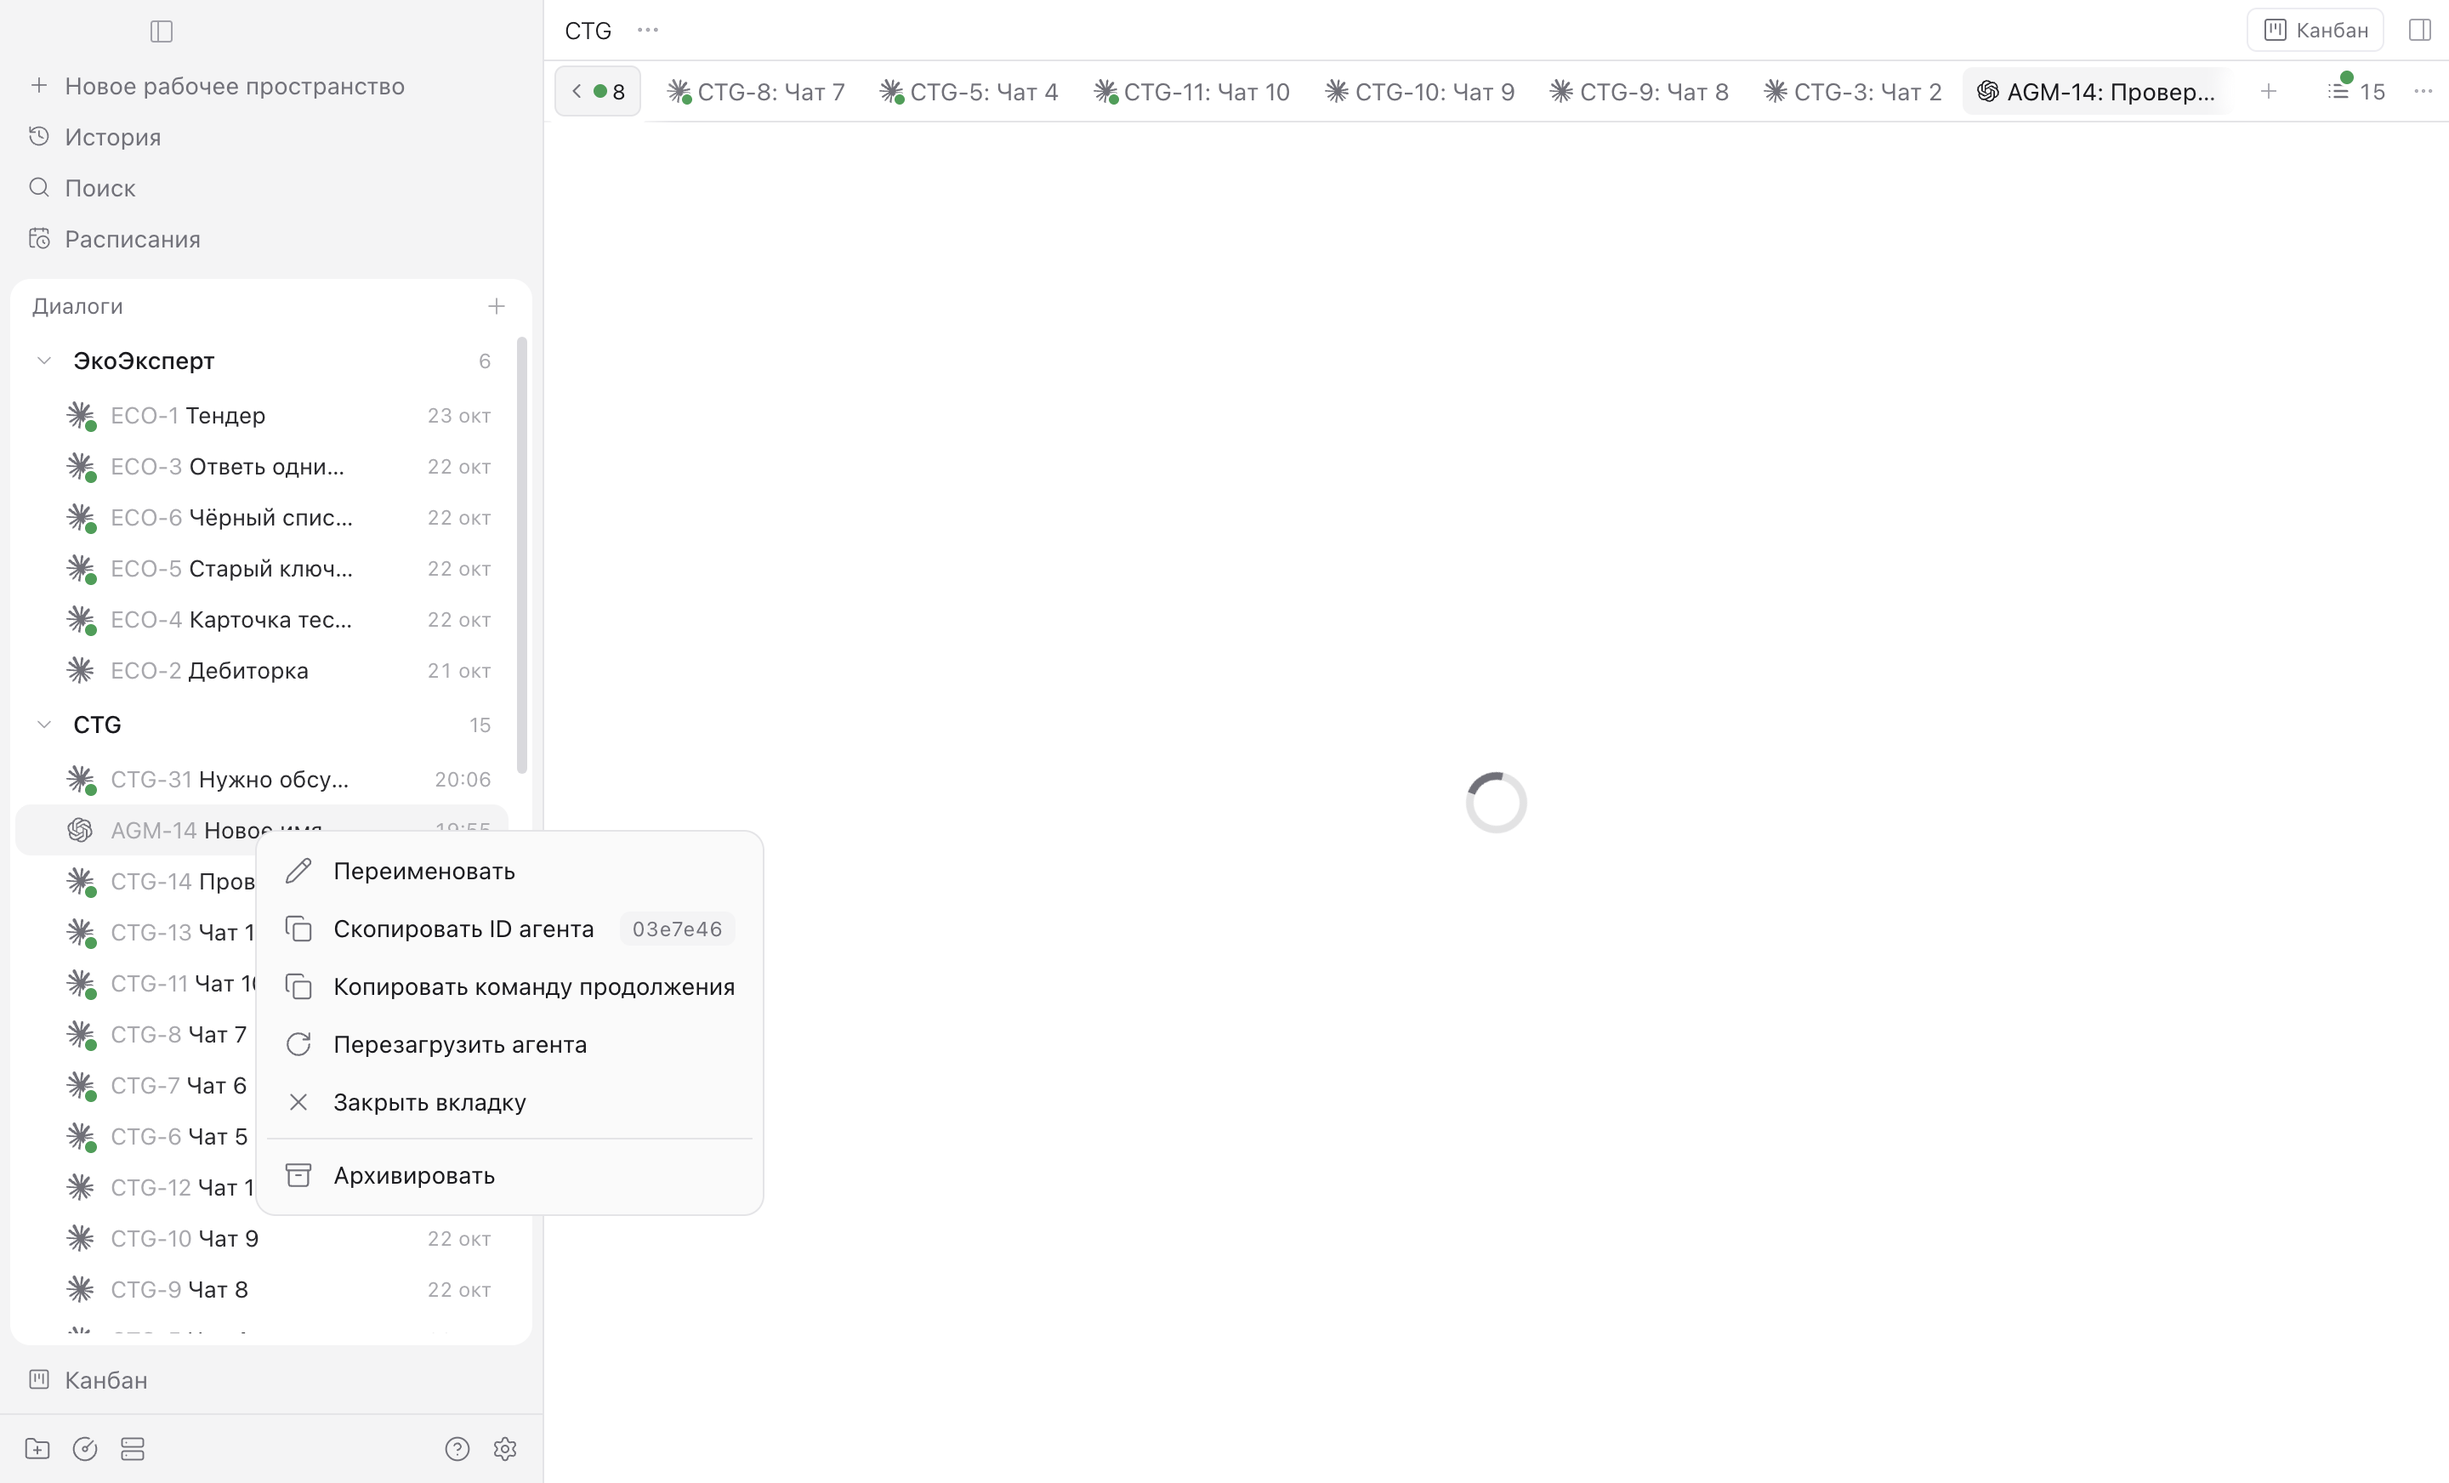
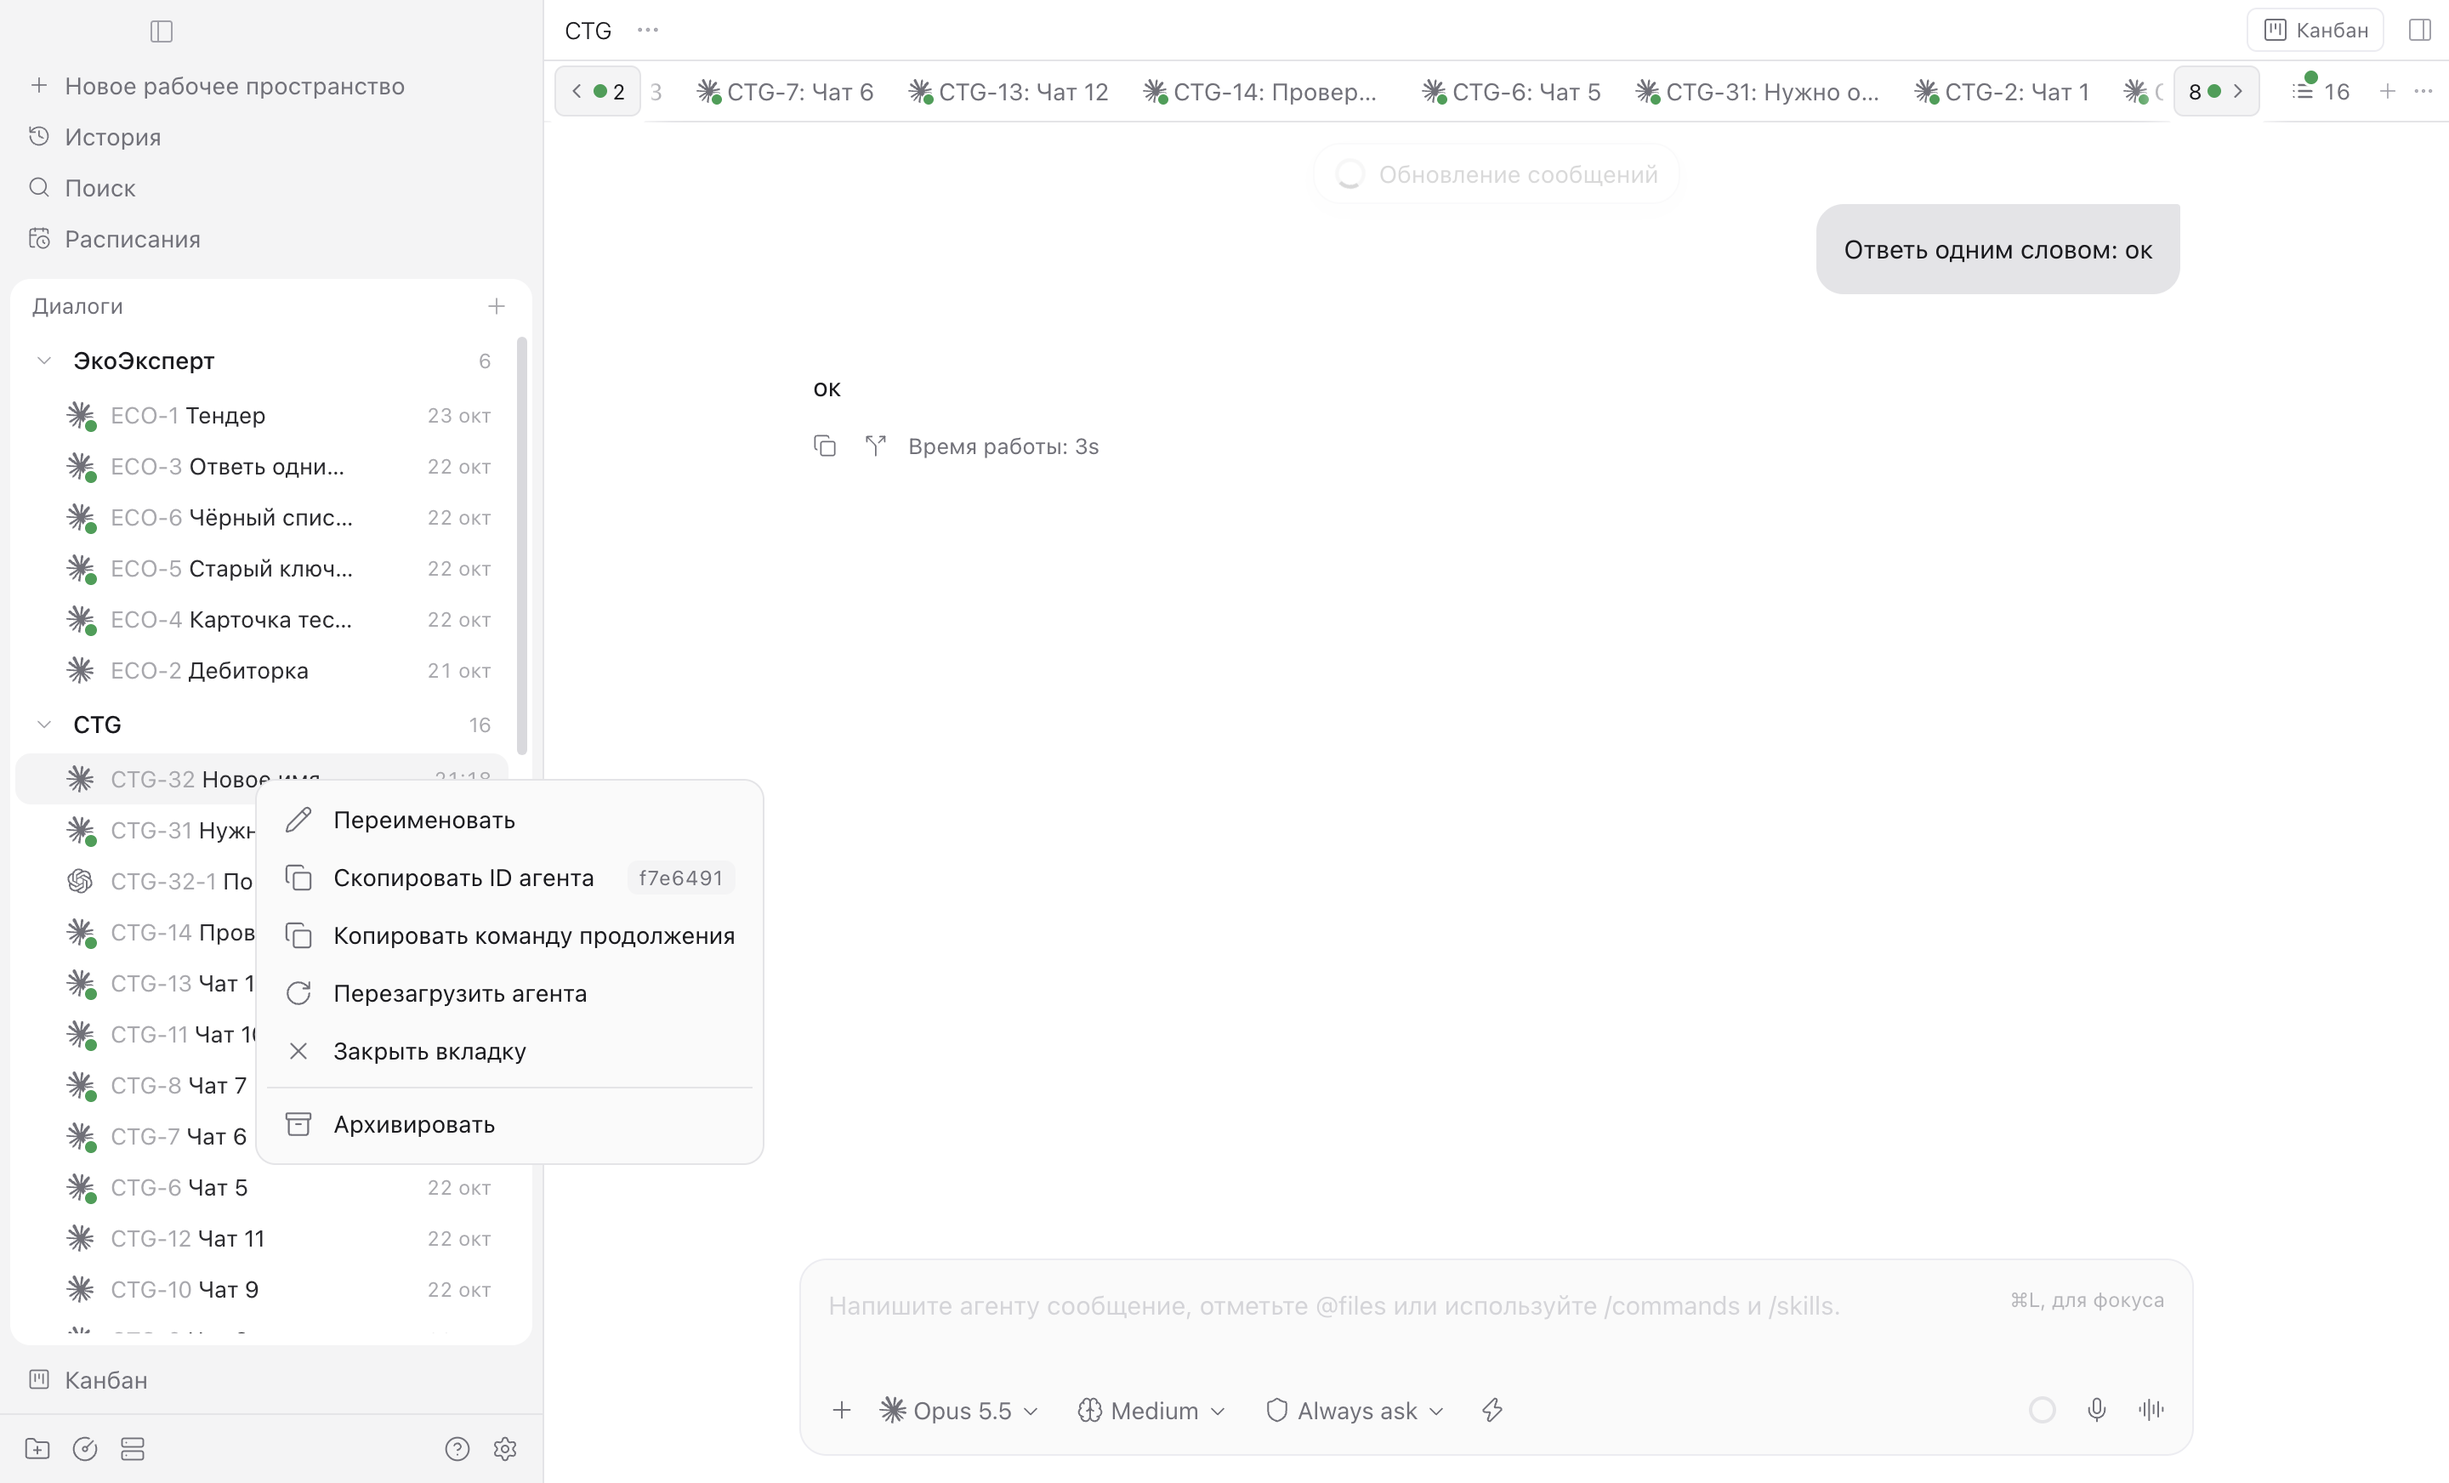
test: verify native row menu on isolated desktop fixture

diff --git a/client/dialogs.tsx b/client/dialogs.tsx
@@ -358,7 +358,10 @@ export function Dialogs(p: PluginSidebarItemProps) {
       else {
         const result = await action({ agentId: agent.id, action: kind });
         if (result.text) await copyRowText(result.text);
-        if (kind === "reload") await d.paseo.agents.ref(agent.id).timeline.refetch();
+        if (kind === "reload") {
+          await d.paseo.agents.ref(agent.id).timeline.refetch();
+          toast.show("Агент перезагружен", { variant: "success" });
+        }
         await qc.invalidateQueries({ queryKey: ["dialogs", p.host.id] });
       }
     } catch (error) { toast.error(error instanceof Error ? error.message : "Не удалось выполнить действие"); }
@@ -749,6 +752,7 @@ export function Archive({
     );
   return (
     <View
+      testID="dialogs-archive-screen"
       style={{
         flex: 1,
         padding: 16,

diff --git a/docs/row-menu-0.10.0.md b/docs/row-menu-0.10.0.md
@@ -24,3 +24,11 @@ claude --resume, hermes --resume, pi --session, omp --session, opencode --sessio
 Настольный сценарий запускает скрытое окно Electron 44.2 с оригинальным app-dist 0.13
 и отдельным демоном 0.12 на 6796. Основные вкладки Александра не использует.
 Результат - row-menu-verification.json, снимки - shots/0.10.0.
+
+Результат проверки: все пункты основного и полного архива работают; успешная перезагрузка
+подтверждена родным success toast, Escape сохраняет исходное имя, Enter сохраняет новый
+текст с прежним ключом Канбана. Копирование проверяется через подмену clipboard.writeText
+в отдельном окне, системный буфер Александра не меняется. На общей старой Codex-фикстуре
+проверен показ ошибки refreshAgent при занятой сессии; окончательный сценарий использует
+собственную Claude-фикстуру f7e64911-852c-4122-a955-c3659415b47e.
+Проверены оба способа открытия: кнопка "..." и правый клик. Весь сценарий прошёл без pageerror.
